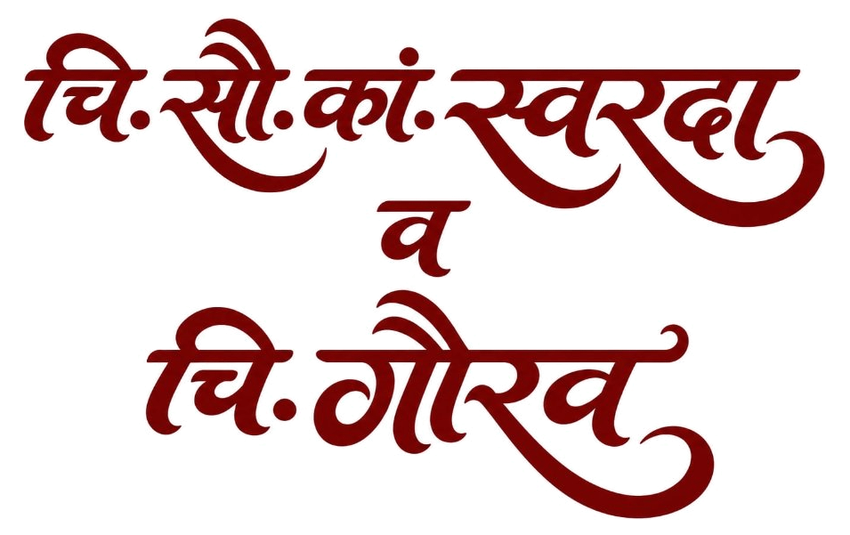
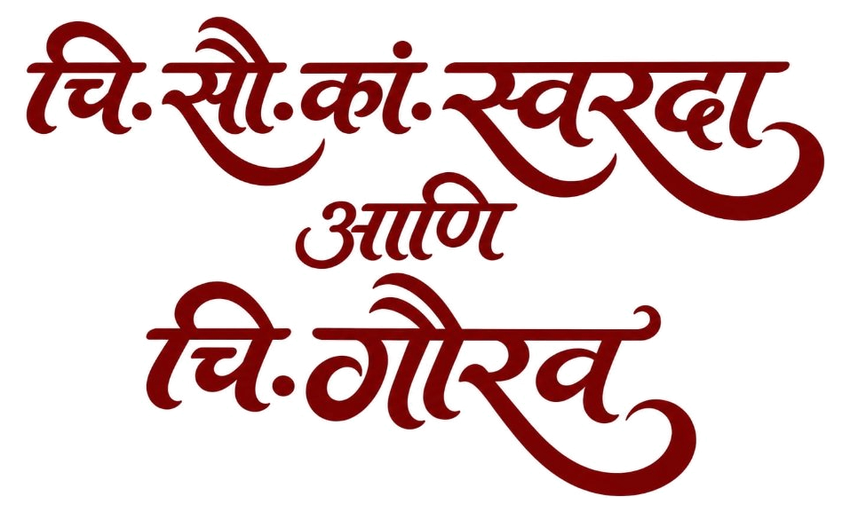
Update couple calligraphy to use 'आणि' (चि. सौ. कां. स्वरदा आणि चि. गौरव)

Changed region(s): [[0.1529, 0.3125, 0.8565, 0.9688], [0.0306, 0.0312, 0.9788, 0.4375], [0.2753, 0.2812, 0.3976, 0.375]]

diff --git a/index.html b/index.html
@@ -4,7 +4,7 @@
 <head>
   <meta charset="utf-8">
   <meta name="viewport" content="width=device-width,initial-scale=1,viewport-fit=cover">
-  <title>चि. सौ. कां. स्वरदा व चि. गौरव · शुभविवाह निमंत्रण · ०५.१२.२०२६</title>
+  <title>चि. सौ. कां. स्वरदा आणि चि. गौरव · शुभविवाह निमंत्रण · ०५.१२.२०२६</title>
   <meta name="description"
     content="चि. सौ. कां. स्वरदा आणि चि. गौरव यांचा मंगलमय विवाह सोहळा. शनिवार, दि. ५ डिसेंबर २०२६, डी-राजवाडा रिसॉर्ट अँड बँक्वेट हॉल, बोईसर.">
   <meta name="theme-color" content="#FDF3E7">
@@ -15,15 +15,15 @@
   <link rel="preconnect" href="https://fonts.googleapis.com">
   <link rel="preconnect" href="https://fonts.gstatic.com" crossorigin>
   <link rel="preconnect" href="https://ik.imagekit.io">
-  <link rel="preload" as="image" href="assets/couple-calligraphy.webp?v=10" type="image/webp" fetchpriority="high">
-  <link rel="preload" as="image" href="assets/couple-calligraphy-sec3.webp?v=10" type="image/webp">
+  <link rel="preload" as="image" href="assets/couple-calligraphy.webp?v=11" type="image/webp" fetchpriority="high">
+  <link rel="preload" as="image" href="assets/couple-calligraphy-sec3.webp?v=11" type="image/webp">
   <link rel="preload" as="image" href="https://ik.imagekit.io/greenspire/invitation/main-bg.avif" fetchpriority="high">
   <link rel="preload" as="image" href="https://ik.imagekit.io/greenspire/invitation/ganpati-logo.avif">
   <link rel="preload" as="image" href="assets/couple.webp?v=3" type="image/webp">
   <link
     href="https://fonts.googleapis.com/css2?family=Cinzel:wght@400;600;700;800&family=Cormorant+Garamond:ital,wght@0,400;0,600;0,700;1,400&family=Great+Vibes&family=Italianno&family=Noto+Serif+Devanagari:wght@400;600;700;800;900&family=Tiro+Devanagari+Marathi:ital,wght@0,400;0,700;1,400&family=Yatra+One&display=block"
     rel="stylesheet">
-  <link rel="stylesheet" href="css/style.css?v=172">
+  <link rel="stylesheet" href="css/style.css?v=173">
 
   <style>
     .stage-cover:not(.is-revealed) .cover-content,
@@ -52,11 +52,11 @@
 
             <div class="cover-names-wrap" role="heading" aria-level="1">
               <picture class="cover-calligraphy-picture">
-                <source srcset="assets/couple-calligraphy.webp?v=10" type="image/webp">
-                <img src="assets/couple-calligraphy.png?v=10" alt="चि. सौ. कां. स्वरदा व चि. गौरव"
-                  class="cover-calligraphy-img" width="850" height="558" fetchpriority="high" decoding="async">
+                <source srcset="assets/couple-calligraphy.webp?v=11" type="image/webp">
+                <img src="assets/couple-calligraphy.png?v=11" alt="चि. सौ. कां. स्वरदा आणि चि. गौरव"
+                  class="cover-calligraphy-img" width="850" height="554" fetchpriority="high" decoding="async">
               </picture>
-              <span class="sr-only">चि. सौ. कां. स्वरदा व चि. गौरव</span>
+              <span class="sr-only">चि. सौ. कां. स्वरदा आणि चि. गौरव</span>
             </div>
 
             <div class="cover-tagline-text devanagari">
@@ -156,11 +156,11 @@
               </p>
               <div class="hero-names hero-calligraphy-wrap" role="heading" aria-level="2">
                 <picture class="hero-calligraphy-picture">
-                  <source srcset="assets/couple-calligraphy-sec3.webp?v=10" type="image/webp">
-                  <img src="assets/couple-calligraphy-sec3.png?v=10" alt="चि. सौ. कां. स्वरदा व चि. गौरव"
-                    class="hero-calligraphy-img" width="850" height="535" loading="lazy" decoding="async">
+                  <source srcset="assets/couple-calligraphy-sec3.webp?v=11" type="image/webp">
+                  <img src="assets/couple-calligraphy-sec3.png?v=11" alt="चि. सौ. कां. स्वरदा आणि चि. गौरव"
+                    class="hero-calligraphy-img" width="850" height="512" loading="lazy" decoding="async">
                 </picture>
-                <span class="sr-only">चि. सौ. कां. स्वरदा व चि. गौरव</span>
+                <span class="sr-only">चि. सौ. कां. स्वरदा आणि चि. गौरव</span>
               </div>
               <p class="hero-line devanagari">यांच्या शुभविवाहाच्या या मंगल सोहळ्यास आपण सहकुटुंब उपस्थित राहून
                 नवदांपत्यास आपले शुभाशिर्वाद द्यावेत आणि त्यांच्या भावी आयुष्यासाठी शुभेच्छा व्यक्त कराव्यात, ही सप्रेम
@@ -274,7 +274,7 @@
             <div class="invitation-closing devanagari">
               <p class="closing-warm devanagari">आपल्या स्नेहपूर्ण उपस्थितीने आमचा आनंद द्विगुणित होईल. या मंगलप्रसंगी
                 आपण सहकुटुंब उपस्थित राहून नवदांपत्यास शुभाशिर्वाद द्यावेत, ही नम्र विनंती.</p>
-              <p class="closing-signature devanagari">स्वरदा व गौरव</p>
+              <p class="closing-signature devanagari">स्वरदा आणि गौरव</p>
               <div class="closing-flourish" aria-hidden="true">
                 <img src="assets/heart-flourish.svg?v=1" alt="शुभविवाह प्रतीक" class="closing-flourish-img" width="320"
                   height="80" loading="lazy" decoding="async">
@@ -317,7 +317,7 @@
   </button>
 
   <script src="js/config.js"></script>
-  <script src="js/app.js?v=133"></script>
+  <script src="js/app.js?v=134"></script>
 </body>
 
 </html>

diff --git a/css/style.css b/css/style.css
@@ -57,7 +57,7 @@ button { cursor: pointer; border: none; background: none; font-family: var(--ser
 
 .cover-names-wrap { display: flex; flex-direction: column; align-items: center; justify-content: center; margin-top: clamp(0.55rem, 1.8vh, 1.2rem); margin-bottom: clamp(0.45rem, 2.0cqw, 1.0rem); padding: 0.2rem 0; position: relative; width: 100%; }
 .cover-calligraphy-picture { display: flex; justify-content: center; align-items: center; width: 100%; }
-.cover-calligraphy-img { width: 100%; max-width: clamp(185px, 58cqw, 255px); max-height: min(21vh, 160px); height: auto; aspect-ratio: 850 / 558; object-fit: contain; display: block; margin: 0 auto; transform: none; filter: drop-shadow(0 2px 5px rgba(99, 22, 34, 0.16)); user-select: none; -webkit-user-select: none; pointer-events: none; }
+.cover-calligraphy-img { width: 100%; max-width: clamp(185px, 58cqw, 255px); max-height: min(21vh, 160px); height: auto; aspect-ratio: 850 / 554; object-fit: contain; display: block; margin: 0 auto; transform: none; filter: drop-shadow(0 2px 5px rgba(99, 22, 34, 0.16)); user-select: none; -webkit-user-select: none; pointer-events: none; }
 .sr-only { position: absolute; width: 1px; height: 1px; padding: 0; margin: -1px; overflow: hidden; clip: rect(0, 0, 0, 0); white-space: nowrap; border: 0; }
 
 .script-title-name { font-family: 'Italianno', cursive; font-size: clamp(3.4rem, 14.5cqw, 5.4rem); color: #16221E; font-weight: 400; line-height: 0.96; letter-spacing: 0.02em; margin: 0; text-align: center; text-shadow: 0 1px 2px rgba(255, 255, 255, 0.95); display: block; }
@@ -151,7 +151,7 @@ button { cursor: pointer; border: none; background: none; font-family: var(--ser
 .hero-names .names-bride { display: block; text-align: center; }
 .hero-calligraphy-wrap { width: 100%; display: flex; flex-direction: column; align-items: center; justify-content: center; margin: 0.35rem 0 0.55rem; position: relative; }
 .hero-calligraphy-picture { display: flex; justify-content: center; align-items: center; width: 100%; }
-.hero-calligraphy-img { width: 100%; max-width: clamp(190px, 60cqw, 255px); height: auto; aspect-ratio: 850 / 535; display: block; margin: 0 auto; filter: drop-shadow(0 2px 5px rgba(99, 22, 34, 0.16)); user-select: none; -webkit-user-select: none; pointer-events: none; }
+.hero-calligraphy-img { width: 100%; max-width: clamp(190px, 60cqw, 255px); height: auto; aspect-ratio: 850 / 512; display: block; margin: 0 auto; filter: drop-shadow(0 2px 5px rgba(99, 22, 34, 0.16)); user-select: none; -webkit-user-select: none; pointer-events: none; }
 
 .hero-line { max-width: 32ch; text-wrap: balance; font-style: italic; font-size: clamp(1.02rem, 4.0cqw, 1.28rem); color: #2F1E16; font-weight: 500; line-height: 1.45; margin: 0.35rem 0; text-shadow: 0 1px 1px rgba(255, 255, 255, 0.85); }
 .hero-line.devanagari { font-family: 'Noto Serif Devanagari', var(--deva); font-style: normal; font-size: clamp(1.20rem, 4.6cqw, 1.45rem); color: #381A1E; font-weight: 600; line-height: 1.7; max-width: 36ch; margin: 1rem 0; }

diff --git a/js/app.js b/js/app.js
@@ -101,7 +101,7 @@
       var calImg = new Image();
       calImg.onload = resolve;
       calImg.onerror = resolve;
-      calImg.src = 'assets/couple-calligraphy.webp?v=10';
+      calImg.src = 'assets/couple-calligraphy.webp?v=11';
       if (calImg.complete) resolve();
     }));
 
